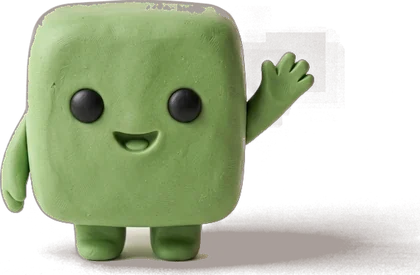
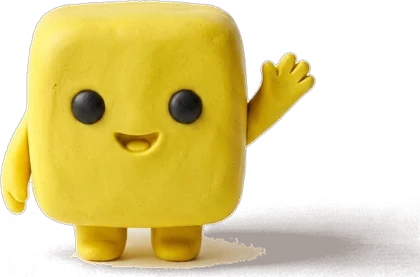
Make das yellow
das buttons, labels, dots and chips are now yellow (dark text on yellow
for readability), with a yellow das house and friend. Stars move to a
warmer amber so they don't read as das.

Claude-Session: https://claude.ai/code/session_019fdwmf7Ni2brXo9ZYBxQM8

diff --git a/index.html b/index.html
@@ -8,10 +8,11 @@
   --paper:#F1EEE6;
   --grape:#9B4DDB; --grape-deep:#6C2BAA; --grape-soft:#EFE2FC;
   --pink:#FF78B5; --pink-deep:#D24E8E; --pink-soft:#FFE1F0;
-  --der:#2F6FE0; --die:#E0433B; --das:#1E9E57;
-  --der-deep:#1F4FAD; --die-deep:#A92B25; --das-deep:#12703C;
-  --der-soft:#E2EBFD; --die-soft:#FCE4E2; --das-soft:#DDF4E6;
-  --star:#FFB81F; --star-deep:#D68F00;
+  --der:#2F6FE0; --die:#E0433B; --das:#F7D21E;
+  --der-deep:#1F4FAD; --die-deep:#A92B25; --das-deep:#C9A400;
+  --der-soft:#E2EBFD; --die-soft:#FCE4E2; --das-soft:#FFF5CC;
+  --das-ink:#8A6D00; --on-das:#3B2352;
+  --star:#FF9F1C; --star-deep:#C96F00;
   --on-color:#FFFFFF;
   --lift:0 14px 30px rgba(92,38,130,.14), 0 2px 0 rgba(92,38,130,.06);
   --blob-a:rgba(255,120,181,.30); --blob-b:rgba(155,77,219,.24); --blob-c:rgba(255,184,31,.18);
@@ -25,9 +26,10 @@
     --ground:#1C1128; --ground-2:#27163A; --surface:#2F1E45; --ink:#F7EEFF; --muted:#B9A3CF; --line:#44305E;
     --grape:#B476F0; --grape-deep:#7B3BBF; --grape-soft:#33224D;
     --pink:#FF8CC2; --pink-deep:#C4477F; --pink-soft:#3E2140;
-    --der:#4F86EE; --die:#EC5A52; --das:#2DB36A;
-    --der-deep:#2A55A8; --die-deep:#9E302B; --das-deep:#1A7543;
-    --der-soft:#1E2944; --die-soft:#3A2024; --das-soft:#173428;
+    --der:#4F86EE; --die:#EC5A52; --das:#F7D21E;
+    --der-deep:#2A55A8; --die-deep:#9E302B; --das-deep:#B89600;
+    --der-soft:#1E2944; --die-soft:#3A2024; --das-soft:#3A3313;
+    --das-ink:#F7D21E;
     --lift:0 14px 30px rgba(0,0,0,.35), 0 2px 0 rgba(0,0,0,.2);
     --blob-a:rgba(255,120,181,.16); --blob-b:rgba(155,77,219,.20); --blob-c:rgba(255,184,31,.08);
     --glass:rgba(255,255,255,.06); --slot-line:rgba(200,160,240,.35);
@@ -38,9 +40,10 @@
   --ground:#1C1128; --ground-2:#27163A; --surface:#2F1E45; --ink:#F7EEFF; --muted:#B9A3CF; --line:#44305E;
   --grape:#B476F0; --grape-deep:#7B3BBF; --grape-soft:#33224D;
   --pink:#FF8CC2; --pink-deep:#C4477F; --pink-soft:#3E2140;
-  --der:#4F86EE; --die:#EC5A52; --das:#2DB36A;
-  --der-deep:#2A55A8; --die-deep:#9E302B; --das-deep:#1A7543;
-  --der-soft:#1E2944; --die-soft:#3A2024; --das-soft:#173428;
+  --der:#4F86EE; --die:#EC5A52; --das:#F7D21E;
+  --der-deep:#2A55A8; --die-deep:#9E302B; --das-deep:#B89600;
+  --der-soft:#1E2944; --die-soft:#3A2024; --das-soft:#3A3313;
+    --das-ink:#F7D21E;
   --lift:0 14px 30px rgba(0,0,0,.35), 0 2px 0 rgba(0,0,0,.2);
   --blob-a:rgba(255,120,181,.16); --blob-b:rgba(155,77,219,.20); --blob-c:rgba(255,184,31,.08);
   --glass:rgba(255,255,255,.06); --slot-line:rgba(200,160,240,.35);
@@ -118,9 +121,9 @@ button:disabled{cursor:default}
 .house[data-a="die"] .house-img{animation-delay:-1.1s} .house[data-a="das"] .house-img{animation-delay:-2.2s}
 @keyframes float{0%,100%{transform:translateY(0)}50%{transform:translateY(-8px)}}
 .house-fb{display:grid;place-items:center;width:100%;height:100%;color:var(--on-color);font-size:60px}
-.house-fb.der{background:var(--der)} .house-fb.die{background:var(--die)} .house-fb.das{background:var(--das)}
+.house-fb.der{background:var(--der)} .house-fb.die{background:var(--die)} .house-fb.das{background:var(--das);color:var(--on-das)}
 .label{display:inline-flex;align-items:center;gap:.25em;font-family:var(--display);font-weight:800;font-size:clamp(24px,4vmin,36px);line-height:1}
-.label.der{color:var(--der)} .label.die{color:var(--die)} .label.das{color:var(--das)}
+.label.der{color:var(--der)} .label.die{color:var(--die)} .label.das{color:var(--das-ink)}
 .label .sym{width:.58em;height:.58em}
 .rooms{border-radius:24px;padding:8px;min-height:clamp(60px,10vmin,90px);display:flex;flex-wrap:wrap;align-content:flex-start;justify-content:center;gap:6px}
 .house[data-a="der"] .rooms{background:var(--der-soft)} .house[data-a="die"] .rooms{background:var(--die-soft)} .house[data-a="das"] .rooms{background:var(--das-soft)}
@@ -151,7 +154,7 @@ button:disabled{cursor:default}
 .emoji.text{font-family:var(--display);font-weight:800;font-size:clamp(48px,10vmin,90px);color:#3B2352}
 .caption{font-family:var(--display);font-weight:800;font-size:clamp(34px,6.4vmin,58px);line-height:1;min-height:1em;visibility:hidden;color:#3B2352}
 .caption.show{visibility:visible;animation:pop .45s cubic-bezier(.3,1.6,.5,1) both}
-.caption .art.der{color:var(--der)} .caption .art.die{color:var(--die)} .caption .art.das{color:var(--das)}
+.caption .art.der{color:var(--der)} .caption .art.die{color:var(--die)} .caption .art.das{color:var(--das-ink)}
 .listen{position:absolute;right:16px;top:16px;width:64px;height:64px;border-radius:50%;background:var(--surface);box-shadow:var(--lift);display:grid;place-items:center;color:var(--grape)}
 .listen svg{width:30px;height:30px}
 .yay{position:absolute;left:16px;top:16px;width:clamp(84px,14vmin,124px);aspect-ratio:1;pointer-events:none;z-index:2}
@@ -163,7 +166,7 @@ button:disabled{cursor:default}
   font-family:var(--display);font-weight:800;font-size:clamp(36px,7.2vmin,66px);line-height:1;transition:transform .12s,opacity .25s,box-shadow .12s}
 .choice[data-a="der"]{background:var(--der);box-shadow:0 9px 0 var(--der-deep),var(--lift)}
 .choice[data-a="die"]{background:var(--die);box-shadow:0 9px 0 var(--die-deep),var(--lift)}
-.choice[data-a="das"]{background:var(--das);box-shadow:0 9px 0 var(--das-deep),var(--lift)}
+.choice[data-a="das"]{background:var(--das);color:var(--on-das);box-shadow:0 9px 0 var(--das-deep),var(--lift)}
 .choice:active:not(:disabled){transform:translateY(6px) scale(.97);box-shadow:0 3px 0 transparent}
 .choices.enter .choice{animation:pop .45s cubic-bezier(.3,1.6,.5,1) both}
 .choices.enter .choice:nth-child(2){animation-delay:.07s} .choices.enter .choice:nth-child(3){animation-delay:.14s}
@@ -183,7 +186,7 @@ button:disabled{cursor:default}
 .sign .fallback{display:grid;place-items:center;width:100%;height:100%;font-size:clamp(56px,10vmin,90px)}
 .sign .badge{position:absolute;right:-6px;bottom:-6px;width:40%;aspect-ratio:1;border-radius:50%;display:grid;place-items:center;color:var(--on-color);box-shadow:0 0 0 4px var(--ground)}
 .sign .badge .sym{width:52%;height:52%}
-.sign[data-a="der"] .badge{background:var(--der)} .sign[data-a="die"] .badge{background:var(--die)} .sign[data-a="das"] .badge{background:var(--das)}
+.sign[data-a="der"] .badge{background:var(--der)} .sign[data-a="die"] .badge{background:var(--die)} .sign[data-a="das"] .badge{background:var(--das);color:var(--on-das)}
 .mouth{font-size:clamp(52px,9vmin,84px);line-height:1;animation:bob 1.4s ease-in-out infinite .3s}
 @keyframes bob{0%,100%{transform:translateY(0)}50%{transform:translateY(-8px)}}
 .go{width:clamp(110px,20vmin,200px);height:clamp(96px,16vmin,140px);border-radius:32px;background:var(--grape);color:var(--on-color);display:grid;place-items:center;
@@ -267,7 +270,7 @@ button:disabled{cursor:default}
 .row .e{font-size:28px;text-align:center}
 .row .e .tile{width:44px;height:44px;border-radius:12px}
 .chip{font-weight:800;font-size:14px;border-radius:999px;padding:4px 0;text-align:center;color:var(--on-color)}
-.chip.der{background:var(--der)} .chip.die{background:var(--die)} .chip.das{background:var(--das)}
+.chip.der{background:var(--der)} .chip.die{background:var(--die)} .chip.das{background:var(--das);color:var(--on-das)}
 .row .n{font-weight:700;font-size:18px;overflow-wrap:anywhere}
 .row .n small{display:block;font-weight:600;font-size:14px;color:var(--muted)}
 .row .n .flag{display:inline-block;margin-left:6px;font-size:12px;font-weight:800;color:var(--on-color);background:var(--pink-deep);border-radius:999px;padding:2px 8px;vertical-align:middle}
@@ -281,7 +284,7 @@ button:disabled{cursor:default}
 .seg button{padding:8px 14px;font-weight:800;min-height:40px;color:var(--muted)}
 .seg button[aria-pressed="true"][data-a="der"]{background:var(--der);color:var(--on-color)}
 .seg button[aria-pressed="true"][data-a="die"]{background:var(--die);color:var(--on-color)}
-.seg button[aria-pressed="true"][data-a="das"]{background:var(--das);color:var(--on-color)}
+.seg button[aria-pressed="true"][data-a="das"]{background:var(--das);color:var(--on-das)}
 input[type=text],textarea,select{font:inherit;font-size:17px;color:var(--ink);background:var(--ground);border:2px solid var(--line);border-radius:12px;padding:8px 12px;box-sizing:border-box;min-height:44px}
 #addEmoji{width:64px;text-align:center;font-size:22px}
 #addNoun{flex:1;min-width:140px}
@@ -291,7 +294,7 @@ textarea{width:100%;min-height:110px;resize:vertical;line-height:1.5}
 .stats{display:flex;flex-wrap:wrap;gap:8px 24px;font-variant-numeric:tabular-nums}
 .stats b{font-size:20px;display:block}
 .settings{display:flex;flex-wrap:wrap;gap:12px;align-items:center}
-.msg{font-size:14px;font-weight:700;color:var(--das);min-height:1.2em}
+.msg{font-size:14px;font-weight:700;color:var(--grape);min-height:1.2em}
 .msg.err{color:var(--die)}
 
 /* ---------- games row ---------- */
@@ -334,7 +337,7 @@ textarea{width:100%;min-height:110px;resize:vertical;line-height:1.5}
 .who svg{width:60%;height:60%}
 .who.on{opacity:1;transform:scale(1.18);box-shadow:0 0 0 4px var(--grape),var(--lift)}
 .claim{position:absolute;right:16px;bottom:16px;display:flex;align-items:center;gap:8px;padding:10px 18px;border-radius:999px;color:var(--on-color);font-family:var(--display);font-weight:800;font-size:clamp(28px,5vmin,44px);line-height:1;box-shadow:var(--lift);animation:pop .45s cubic-bezier(.3,1.6,.5,1) both}
-.claim.der{background:var(--der)} .claim.die{background:var(--die)} .claim.das{background:var(--das)}
+.claim.der{background:var(--der)} .claim.die{background:var(--die)} .claim.das{background:var(--das);color:var(--on-das)}
 .claim .sym{width:.5em;height:.5em}
 .claim .by{width:1.1em;height:1.1em;border-radius:50%;background:rgba(255,255,255,.3);display:grid;place-items:center}
 .claim .by svg{width:70%;height:70%}
@@ -360,7 +363,7 @@ textarea{width:100%;min-height:110px;resize:vertical;line-height:1.5}
 .spage.turn-in img{animation:pagein .6s cubic-bezier(.2,1.2,.4,1) both}
 @keyframes pagein{from{transform:translateX(12%) rotate(2deg);opacity:0}to{transform:none;opacity:1}}
 .stext{font-family:var(--display);font-weight:800;font-size:clamp(26px,4.6vmin,46px);text-align:center;line-height:1.2;max-width:900px;text-wrap:balance;min-height:2.4em}
-.stext .der{color:var(--der)} .stext .die{color:var(--die)} .stext .das{color:var(--das)}
+.stext .der{color:var(--der)} .stext .die{color:var(--die)} .stext .das{color:var(--das-ink)}
 .stext .wd{display:inline-block;transition:transform .2s}
 .stext .wd.hi{transform:translateY(-6px) scale(1.08)}
 .snav{display:flex;gap:clamp(18px,4vw,36px);align-items:center}

diff --git a/README.md b/README.md
@@ -4,7 +4,7 @@ A der/die/das practice game for young children. No reading needed: every word is
 
 **Play it:** https://ohadnissim.github.io/DerDieDas/
 
-- **Practice (purple button):** the app says the word with its article ("der Hund"), the child taps **der** (blue ●), **die** (red ▲) or **das** (green ■), then says it out loud with the hand sign (der ✊ fist, die ☝ pointing finger, das ✋ flat hand). A peace sign ✌ celebrates right answers; short sentences ("Der Hund bellt.") put the word in context. Missed words come back a few cards later; across days, known words come back less often.
+- **Practice (purple button):** the app says the word with its article ("der Hund"), the child taps **der** (blue ●), **die** (red ▲) or **das** (yellow ■), then says it out loud with the hand sign (der ✊ fist, die ☝ pointing finger, das ✋ flat hand). A peace sign ✌ celebrates right answers; short sentences ("Der Hund bellt.") put the word in context. Missed words come back a few cards later; across days, known words come back less often.
 - **Quiz (pink button, gets a "!" every 2 rounds):** picture only, no hints, one try per word. Missed words are flagged for the grown-ups and go back into practice.
 - **Speaking:** in the say-it step she taps the microphone and says the word; she gets kind feedback ("Super gesagt!" / "Fast! Hör mal:") and hears her own voice back. Needs the microphone permission; works on this GitHub version only.
 - **Memory (pink cards):** find two pictures that live in the same house; each card says its word.
